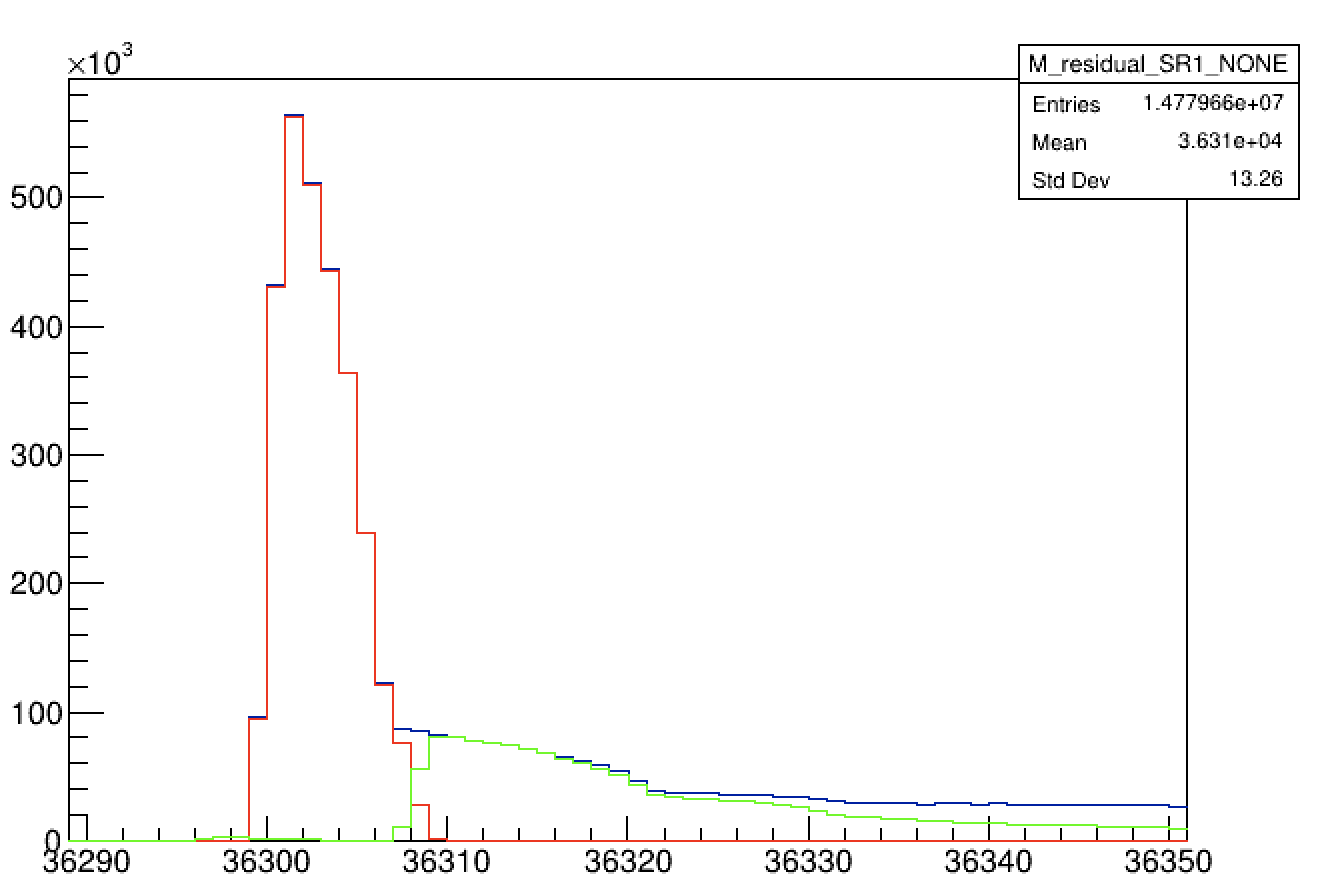
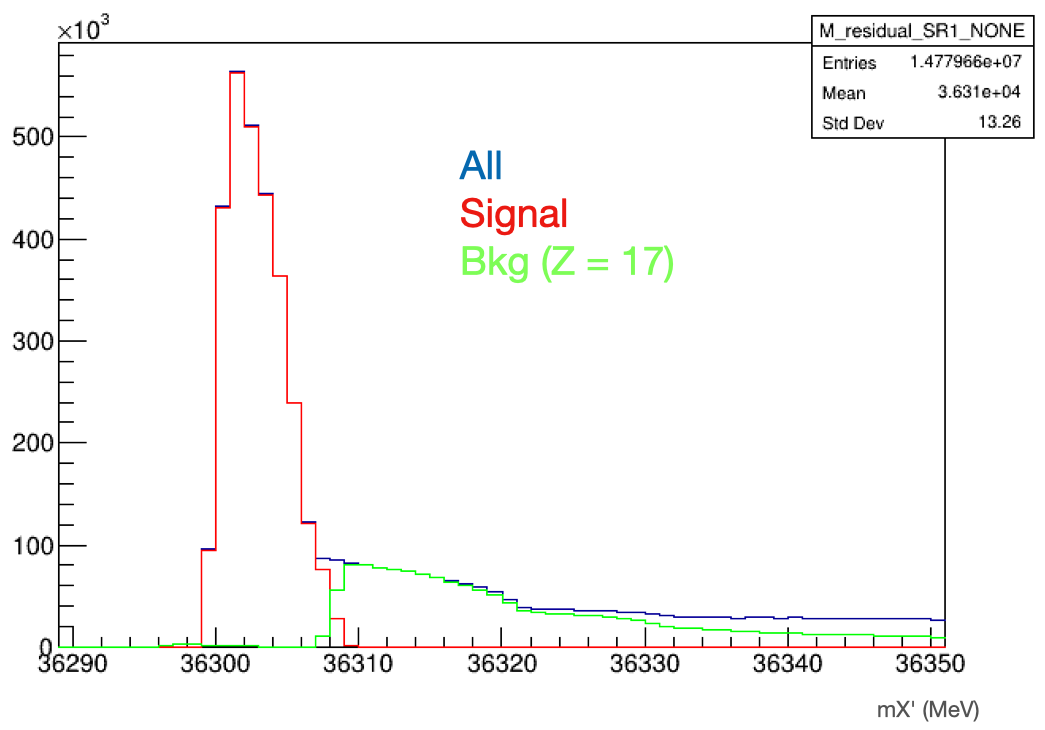
Deployed f789ee3 with MkDocs version: 1.2.3

Changed region(s): [[0.0, 0.0301, 1.0, 0.9945], [0.4287, 0.2712, 0.6431, 0.3918], [0.4287, 0.211, 0.49, 0.2411]]

diff --git a/SR1/residual_mass/index.html b/SR1/residual_mass/index.html
@@ -124,6 +124,8 @@
         <li class="first-level active"><a href="#definition-of-residual-mass">Definition of residual mass</a></li>
             <li class="second-level"><a href="#residual-mass-distribution-before-smearing">Residual mass distribution before smearing</a></li>
                 
+            <li class="second-level"><a href="#residual-mass-distribution-after-smearing">Residual mass distribution after smearing</a></li>
+                
     </ul>
 </div></div>
         <div class="col-md-9" role="main">
@@ -135,7 +137,10 @@
 <h2 id="residual-mass-distribution-before-smearing">Residual mass distribution before smearing</h2>
 <p><img alt="" src="../residual_mass_no_smear.png" /></p>
 <p>We observe Z = 17 bkg (Cl with different atomic mass) at just above signal events.<br />
-So, we can expect that overlap between signal and bkg  after smearing will be dominated by Z = 17 bkg.</p></div>
+So, we can expect that overlap between signal and bkg  after smearing will be dominated by Z = 17 bkg.</p>
+<h2 id="residual-mass-distribution-after-smearing">Residual mass distribution after smearing</h2>
+<p><img alt="" src="../residual_mass_with_smear.png" /></p>
+<p>We observe exactly what we expected</p></div>
         
         
     </div>

diff --git a/index.html b/index.html
@@ -278,5 +278,5 @@ SR4 : <span class="arithmatex"><span class="MathJax_Preview">{\pi}^{+} + {}^{40}
 
 <!--
 MkDocs version : 1.2.3
-Build Date UTC : 2022-03-21 06:46:45.165475+00:00
+Build Date UTC : 2022-03-21 06:54:14.153362+00:00
 -->
